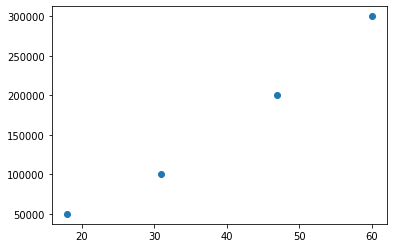
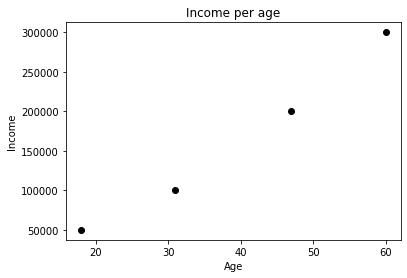
Add interpolation for categorical data

Changed region(s): [[0.0, 0.0, 1.0, 0.9879], [0.6718, 0.3669, 0.7328, 0.4234], [0.3969, 0.6774, 0.458, 0.7339]]

diff --git a/docs/intrplate.html b/docs/intrplate.html
@@ -46,6 +46,8 @@
     <script src="_static/copybutton.js"></script>
     <script >var togglebuttonSelector = '.toggle, .admonition.dropdown, .tag_hide_input div.cell_input, .tag_hide-input div.cell_input, .tag_hide_output div.cell_output, .tag_hide-output div.cell_output, .tag_hide_cell.cell, .tag_hide-cell.cell';</script>
     <script src="_static/sphinx-book-theme.be0a4a0c39cd630af62a2fcf693f3f06.js"></script>
+    <script async="async" src="https://cdnjs.cloudflare.com/ajax/libs/mathjax/2.7.7/latest.js?config=TeX-AMS-MML_HTMLorMML"></script>
+    <script type="text/x-mathjax-config">MathJax.Hub.Config({"tex2jax": {"inlineMath": [["\\(", "\\)"]], "displayMath": [["\\[", "\\]"]], "processRefs": false, "processEnvironments": false}})</script>
     <script async="async" src="https://unpkg.com/thebelab@latest/lib/index.js"></script>
     <script >
         const thebe_selector = ".thebe"
@@ -177,6 +179,37 @@
     <!-- Table of contents -->
     <div class="d-none d-md-block col-md-2 bd-toc show">
         
+        <div class="tocsection onthispage pt-5 pb-3">
+            <i class="fas fa-list"></i> Contents
+        </div>
+        <nav id="bd-toc-nav">
+            <ul class="nav section-nav flex-column">
+ <li class="toc-h2 nav-item toc-entry">
+  <a class="reference internal nav-link" href="#b-splines">
+   B-splines
+  </a>
+ </li>
+ <li class="toc-h2 nav-item toc-entry">
+  <a class="reference internal nav-link" href="#examples">
+   Examples
+  </a>
+  <ul class="nav section-nav flex-column">
+   <li class="toc-h3 nav-item toc-entry">
+    <a class="reference internal nav-link" href="#age-and-income">
+     Age and income
+    </a>
+   </li>
+   <li class="toc-h3 nav-item toc-entry">
+    <a class="reference internal nav-link" href="#categorical-variables">
+     Categorical variables
+    </a>
+   </li>
+  </ul>
+ </li>
+</ul>
+
+        </nav>
+        
     </div>
 </div>
     <div id="main-content" class="row">
@@ -186,6 +219,31 @@
                 
   <div class="section" id="intrplate">
 <h1>intrplate<a class="headerlink" href="#intrplate" title="Permalink to this headline">¶</a></h1>
+<div class="section" id="b-splines">
+<h2>B-splines<a class="headerlink" href="#b-splines" title="Permalink to this headline">¶</a></h2>
+<p>A B-spline is a configurable spline function typically used for curve fitting.</p>
+<p>A spline of order <span class="math notranslate nohighlight">\(n\)</span> is a piecewise polynomial function of degree <span class="math notranslate nohighlight">\(n-1\)</span> in a variable <span class="math notranslate nohighlight">\(x\)</span>.
+The values of <span class="math notranslate nohighlight">\(x\)</span> where the pieces of polynomial meet are known as knots, denoted <span class="math notranslate nohighlight">\(t_{0},t_{1},t_{2},\ldots ,t_{n}\)</span> and sorted into non-decreasing order.
+When the knots are distinct, the first <span class="math notranslate nohighlight">\(n-2\)</span> derivatives of the polynomial pieces are continuous across each knot. When <span class="math notranslate nohighlight">\(r\)</span>r knots are coincident, then only the first <span class="math notranslate nohighlight">\(n-r-1\)</span> derivatives of the spline are continuous across that knot.</p>
+<p>For a given sequence of knots, there is, up to a scaling factor, a unique spline <span class="math notranslate nohighlight">\(B_{i,n}(x)\)</span> satisfying:</p>
+<div class="math notranslate nohighlight">
+\[\begin{split}
+B_{i,n}(x)=\left\{\begin{array}{ll}0&amp;\mathrm {if} \quad x&lt;t_{i}\quad \mathrm {or} \quad x\geq t_{i+n}\\\mathrm {nonzero} &amp;\mathrm {otherwise} \end{array}\right.
+\end{split}\]</div>
+<p>If we add the additional constrain that <span class="math notranslate nohighlight">\(\sum _{i}B_{i,n}(x)=1\)</span> for all <span class="math notranslate nohighlight">\(x\)</span> between the first and last knot, then the scaling factor
+of <span class="math notranslate nohighlight">\(B_{i,n}(x)\)</span> becomes fixed. The resulting <span class="math notranslate nohighlight">\(B_{i,n}(x)\)</span> spline functions are called B-splines.</p>
+</div>
+<div class="section" id="examples">
+<h2>Examples<a class="headerlink" href="#examples" title="Permalink to this headline">¶</a></h2>
+<div class="section" id="age-and-income">
+<h3>Age and income<a class="headerlink" href="#age-and-income" title="Permalink to this headline">¶</a></h3>
+<p>Let’s create a <span class="math notranslate nohighlight">\(n=3\)</span> B-spline for a dataset. Let’s assume we age a <em>age</em> and <em>income</em> dataset we want to simulate, and we want to provide the following points:</p>
+<ul class="simple">
+<li><p>Age 18, income 50k</p></li>
+<li><p>Age 31, income 100k</p></li>
+<li><p>Age 47, income 200k</p></li>
+<li><p>Age 60, income 300k</p></li>
+</ul>
 <div class="cell docutils container">
 <div class="cell_input docutils container">
 <div class="highlight-ipython3 notranslate"><div class="highlight"><pre><span></span><span class="kn">import</span> <span class="nn">numpy</span> <span class="k">as</span> <span class="nn">np</span>
@@ -196,11 +254,14 @@
 </div>
 </div>
 </div>
-<div class="cell docutils container">
+<div class="cell tag_hide-input docutils container">
 <div class="cell_input docutils container">
 <div class="highlight-ipython3 notranslate"><div class="highlight"><pre><span></span><span class="kn">import</span> <span class="nn">matplotlib.pyplot</span> <span class="k">as</span> <span class="nn">plt</span>
 
-<span class="n">plt</span><span class="o">.</span><span class="n">scatter</span><span class="p">(</span><span class="n">data</span><span class="p">[:,</span><span class="mi">0</span><span class="p">],</span> <span class="n">data</span><span class="p">[:,</span><span class="mi">1</span><span class="p">])</span>
+<span class="n">plt</span><span class="o">.</span><span class="n">scatter</span><span class="p">(</span><span class="n">data</span><span class="p">[:,</span><span class="mi">0</span><span class="p">],</span> <span class="n">data</span><span class="p">[:,</span><span class="mi">1</span><span class="p">],</span> <span class="n">c</span><span class="o">=</span><span class="s1">&#39;k&#39;</span><span class="p">)</span>
+<span class="n">plt</span><span class="o">.</span><span class="n">title</span><span class="p">(</span><span class="s2">&quot;Income per age&quot;</span><span class="p">)</span>
+<span class="n">plt</span><span class="o">.</span><span class="n">xlabel</span><span class="p">(</span><span class="s2">&quot;Age&quot;</span><span class="p">)</span>
+<span class="n">plt</span><span class="o">.</span><span class="n">ylabel</span><span class="p">(</span><span class="s2">&quot;Income&quot;</span><span class="p">)</span>
 <span class="n">plt</span><span class="o">.</span><span class="n">show</span><span class="p">()</span>
 </pre></div>
 </div>
@@ -209,6 +270,7 @@
 <img alt="_images/intrplate_2_0.png" src="_images/intrplate_2_0.png" />
 </div>
 </div>
+<p>Let’s create a simple interpolation:</p>
 <div class="cell docutils container">
 <div class="cell_input docutils container">
 <div class="highlight-ipython3 notranslate"><div class="highlight"><pre><span></span><span class="n">interpolated</span> <span class="o">=</span> <span class="n">intrplate</span><span class="o">.</span><span class="n">basis_spline</span><span class="p">(</span><span class="n">data</span><span class="o">=</span><span class="n">data</span><span class="p">,</span> <span class="n">degree</span><span class="o">=</span><span class="mi">3</span><span class="p">)</span>
@@ -216,18 +278,27 @@
 </div>
 </div>
 </div>
-<div class="cell docutils container">
+<div class="cell tag_hide-input docutils container">
 <div class="cell_input docutils container">
-<div class="highlight-ipython3 notranslate"><div class="highlight"><pre><span></span><span class="n">plt</span><span class="o">.</span><span class="n">scatter</span><span class="p">(</span><span class="n">interpolated</span><span class="p">[:,</span><span class="mi">0</span><span class="p">],</span> <span class="n">interpolated</span><span class="p">[:,</span><span class="mi">1</span><span class="p">],</span> <span class="n">s</span><span class="o">=</span><span class="mi">2</span><span class="p">)</span>
-<span class="n">plt</span><span class="o">.</span><span class="n">scatter</span><span class="p">(</span><span class="n">data</span><span class="p">[:,</span><span class="mi">0</span><span class="p">],</span> <span class="n">data</span><span class="p">[:,</span><span class="mi">1</span><span class="p">],</span> <span class="n">c</span><span class="o">=</span><span class="s1">&#39;red&#39;</span><span class="p">)</span>
+<div class="highlight-ipython3 notranslate"><div class="highlight"><pre><span></span><span class="n">plt</span><span class="o">.</span><span class="n">scatter</span><span class="p">(</span><span class="n">interpolated</span><span class="p">[:,</span><span class="mi">0</span><span class="p">],</span> <span class="n">interpolated</span><span class="p">[:,</span><span class="mi">1</span><span class="p">],</span> <span class="n">s</span><span class="o">=</span><span class="mi">2</span><span class="p">,</span> <span class="n">c</span><span class="o">=</span><span class="s1">&#39;red&#39;</span><span class="p">)</span>
+<span class="n">plt</span><span class="o">.</span><span class="n">title</span><span class="p">(</span><span class="s2">&quot;Income per age (interpolated)&quot;</span><span class="p">)</span>
+<span class="n">plt</span><span class="o">.</span><span class="n">xlabel</span><span class="p">(</span><span class="s2">&quot;Age&quot;</span><span class="p">)</span>
+<span class="n">plt</span><span class="o">.</span><span class="n">ylabel</span><span class="p">(</span><span class="s2">&quot;Income&quot;</span><span class="p">)</span>
+<span class="n">plt</span><span class="o">.</span><span class="n">scatter</span><span class="p">(</span><span class="n">data</span><span class="p">[:,</span><span class="mi">0</span><span class="p">],</span> <span class="n">data</span><span class="p">[:,</span><span class="mi">1</span><span class="p">],</span> <span class="n">c</span><span class="o">=</span><span class="s1">&#39;k&#39;</span><span class="p">)</span>
 <span class="n">plt</span><span class="o">.</span><span class="n">show</span><span class="p">()</span>
 </pre></div>
 </div>
 </div>
 <div class="cell_output docutils container">
-<img alt="_images/intrplate_4_0.png" src="_images/intrplate_4_0.png" />
+<img alt="_images/intrplate_5_0.png" src="_images/intrplate_5_0.png" />
 </div>
 </div>
+<p>The dataset, however, does not contain any type of randomness right now.
+We can use the <code class="docutils literal notranslate"><span class="pre">noisy_basis_spline</span></code> which adds random noise according to a normal distribution</p>
+<div class="math notranslate nohighlight">
+\[
+p^{\prime} = p + \epsilon,\quad\epsilon \sim \mathcal{N}\left(0,\sigma^2\right)
+\]</div>
 <div class="cell docutils container">
 <div class="cell_input docutils container">
 <div class="highlight-ipython3 notranslate"><div class="highlight"><pre><span></span><span class="n">interpolated_noisy</span> <span class="o">=</span> <span class="n">intrplate</span><span class="o">.</span><span class="n">noisy_basis_spline</span><span class="p">(</span><span class="n">data</span><span class="o">=</span><span class="n">data</span><span class="p">,</span> <span class="n">degree</span><span class="o">=</span><span class="mi">3</span><span class="p">,</span> <span class="n">std</span><span class="o">=</span><span class="mf">5.0</span><span class="p">)</span>
@@ -235,16 +306,76 @@
 </div>
 </div>
 </div>
-<div class="cell docutils container">
+<div class="cell tag_hide-input docutils container">
 <div class="cell_input docutils container">
-<div class="highlight-ipython3 notranslate"><div class="highlight"><pre><span></span><span class="n">plt</span><span class="o">.</span><span class="n">scatter</span><span class="p">(</span><span class="n">interpolated_noisy</span><span class="p">[:,</span><span class="mi">0</span><span class="p">],</span> <span class="n">interpolated_noisy</span><span class="p">[:,</span><span class="mi">1</span><span class="p">],</span> <span class="n">s</span><span class="o">=</span><span class="mi">2</span><span class="p">)</span>
-<span class="n">plt</span><span class="o">.</span><span class="n">scatter</span><span class="p">(</span><span class="n">data</span><span class="p">[:,</span><span class="mi">0</span><span class="p">],</span> <span class="n">data</span><span class="p">[:,</span><span class="mi">1</span><span class="p">],</span> <span class="n">c</span><span class="o">=</span><span class="s1">&#39;red&#39;</span><span class="p">)</span>
+<div class="highlight-ipython3 notranslate"><div class="highlight"><pre><span></span><span class="n">plt</span><span class="o">.</span><span class="n">scatter</span><span class="p">(</span><span class="n">interpolated_noisy</span><span class="p">[:,</span><span class="mi">0</span><span class="p">],</span> <span class="n">interpolated_noisy</span><span class="p">[:,</span><span class="mi">1</span><span class="p">],</span> <span class="n">s</span><span class="o">=</span><span class="mi">2</span><span class="p">,</span> <span class="n">c</span><span class="o">=</span><span class="s1">&#39;red&#39;</span><span class="p">)</span>
+<span class="n">plt</span><span class="o">.</span><span class="n">scatter</span><span class="p">(</span><span class="n">data</span><span class="p">[:,</span><span class="mi">0</span><span class="p">],</span> <span class="n">data</span><span class="p">[:,</span><span class="mi">1</span><span class="p">],</span> <span class="n">c</span><span class="o">=</span><span class="s1">&#39;k&#39;</span><span class="p">)</span>
+<span class="n">plt</span><span class="o">.</span><span class="n">title</span><span class="p">(</span><span class="s2">&quot;Income per age (interpolated)&quot;</span><span class="p">)</span>
+<span class="n">plt</span><span class="o">.</span><span class="n">xlabel</span><span class="p">(</span><span class="s2">&quot;Age&quot;</span><span class="p">)</span>
+<span class="n">plt</span><span class="o">.</span><span class="n">ylabel</span><span class="p">(</span><span class="s2">&quot;Income&quot;</span><span class="p">)</span>
 <span class="n">plt</span><span class="o">.</span><span class="n">show</span><span class="p">()</span>
 </pre></div>
 </div>
 </div>
 <div class="cell_output docutils container">
-<img alt="_images/intrplate_6_0.png" src="_images/intrplate_6_0.png" />
+<img alt="_images/intrplate_8_0.png" src="_images/intrplate_8_0.png" />
+</div>
+</div>
+</div>
+<div class="section" id="categorical-variables">
+<h3>Categorical variables<a class="headerlink" href="#categorical-variables" title="Permalink to this headline">¶</a></h3>
+<p>For this example, let’s take a categorical variable.
+Let’s assume as an index the <em>week number</em> and for the categorical variable the possible temperature categories <em>cold</em>, <em>mild</em>, <em>hot</em>.</p>
+<div class="cell docutils container">
+<div class="cell_input docutils container">
+<div class="highlight-ipython3 notranslate"><div class="highlight"><pre><span></span><span class="n">temperatures</span> <span class="o">=</span> <span class="n">np</span><span class="o">.</span><span class="n">array</span><span class="p">([[</span><span class="mi">4</span><span class="p">,</span> <span class="s1">&#39;cold&#39;</span><span class="p">],</span> <span class="p">[</span><span class="mi">18</span><span class="p">,</span> <span class="s1">&#39;mild&#39;</span><span class="p">],</span> <span class="p">[</span><span class="mi">32</span><span class="p">,</span> <span class="s1">&#39;hot&#39;</span><span class="p">],</span> <span class="p">[</span><span class="mi">37</span><span class="p">,</span> <span class="s1">&#39;mild&#39;</span><span class="p">],</span> <span class="p">[</span><span class="mi">49</span><span class="p">,</span> <span class="s1">&#39;cold&#39;</span><span class="p">]])</span>
+</pre></div>
+</div>
+</div>
+</div>
+<div class="cell tag_hide-input docutils container">
+<div class="cell_input docutils container">
+<div class="highlight-ipython3 notranslate"><div class="highlight"><pre><span></span><span class="n">plt</span><span class="o">.</span><span class="n">scatter</span><span class="p">(</span><span class="n">temperatures</span><span class="p">[:,</span><span class="mi">0</span><span class="p">],</span> <span class="n">temperatures</span><span class="p">[:,</span><span class="mi">1</span><span class="p">],</span> <span class="n">c</span><span class="o">=</span><span class="s1">&#39;k&#39;</span><span class="p">)</span>
+<span class="n">plt</span><span class="o">.</span><span class="n">title</span><span class="p">(</span><span class="s2">&quot;Temperature category by week number&quot;</span><span class="p">)</span>
+<span class="n">plt</span><span class="o">.</span><span class="n">xlabel</span><span class="p">(</span><span class="s2">&quot;Week&quot;</span><span class="p">)</span>
+<span class="n">plt</span><span class="o">.</span><span class="n">ylabel</span><span class="p">(</span><span class="s2">&quot;Temperature&quot;</span><span class="p">)</span>
+<span class="n">plt</span><span class="o">.</span><span class="n">show</span><span class="p">()</span>
+</pre></div>
+</div>
+</div>
+<div class="cell_output docutils container">
+<img alt="_images/intrplate_11_0.png" src="_images/intrplate_11_0.png" />
+</div>
+</div>
+<div class="cell docutils container">
+<div class="cell_input docutils container">
+<div class="highlight-ipython3 notranslate"><div class="highlight"><pre><span></span><span class="n">interpolated_temperatures</span> <span class="o">=</span> <span class="n">intrplate</span><span class="o">.</span><span class="n">interpolate_categorical</span><span class="p">(</span><span class="n">temperatures</span><span class="p">[:,</span><span class="mi">0</span><span class="p">]</span><span class="o">.</span><span class="n">astype</span><span class="p">(</span><span class="n">np</span><span class="o">.</span><span class="n">float</span><span class="p">),</span> <span class="n">temperatures</span><span class="p">[:,</span><span class="mi">1</span><span class="p">],</span> <span class="n">size</span><span class="o">=</span><span class="mi">52</span><span class="p">)</span>
+</pre></div>
+</div>
+</div>
+</div>
+<div class="cell tag_hide-input docutils container">
+<div class="cell_input docutils container">
+<div class="highlight-ipython3 notranslate"><div class="highlight"><pre><span></span><span class="kn">from</span> <span class="nn">matplotlib.ticker</span> <span class="kn">import</span> <span class="n">FormatStrFormatter</span>
+<span class="kn">import</span> <span class="nn">matplotlib</span>
+
+<span class="n">fig</span><span class="p">,</span> <span class="n">ax</span> <span class="o">=</span> <span class="n">plt</span><span class="o">.</span><span class="n">subplots</span><span class="p">()</span>
+
+<span class="n">plt</span><span class="o">.</span><span class="n">scatter</span><span class="p">(</span><span class="n">interpolated_temperatures</span><span class="p">[:,</span><span class="mi">0</span><span class="p">],</span> <span class="n">interpolated_temperatures</span><span class="p">[:,</span><span class="mi">1</span><span class="p">],</span> <span class="n">s</span><span class="o">=</span><span class="mi">2</span><span class="p">,</span> <span class="n">c</span><span class="o">=</span><span class="s1">&#39;red&#39;</span><span class="p">)</span>
+<span class="n">plt</span><span class="o">.</span><span class="n">title</span><span class="p">(</span><span class="s2">&quot;Temperature category by week number&quot;</span><span class="p">)</span>
+<span class="n">plt</span><span class="o">.</span><span class="n">xlabel</span><span class="p">(</span><span class="s2">&quot;Week&quot;</span><span class="p">)</span>
+<span class="n">plt</span><span class="o">.</span><span class="n">ylabel</span><span class="p">(</span><span class="s2">&quot;Temperature&quot;</span><span class="p">)</span>
+<span class="n">plt</span><span class="o">.</span><span class="n">scatter</span><span class="p">(</span><span class="n">temperatures</span><span class="p">[:,</span><span class="mi">0</span><span class="p">]</span><span class="o">.</span><span class="n">astype</span><span class="p">(</span><span class="n">np</span><span class="o">.</span><span class="n">float</span><span class="p">),</span> <span class="n">temperatures</span><span class="p">[:,</span><span class="mi">1</span><span class="p">],</span> <span class="n">c</span><span class="o">=</span><span class="s1">&#39;k&#39;</span><span class="p">)</span>
+<span class="n">ax</span><span class="o">.</span><span class="n">xaxis</span><span class="o">.</span><span class="n">set_major_formatter</span><span class="p">(</span><span class="n">FormatStrFormatter</span><span class="p">(</span><span class="s1">&#39;</span><span class="si">%.0f</span><span class="s1">&#39;</span><span class="p">))</span>
+<span class="n">ax</span><span class="o">.</span><span class="n">xaxis</span><span class="o">.</span><span class="n">set_major_locator</span><span class="p">(</span><span class="n">matplotlib</span><span class="o">.</span><span class="n">ticker</span><span class="o">.</span><span class="n">MaxNLocator</span><span class="p">(</span><span class="n">nbins</span><span class="o">=</span><span class="mi">16</span><span class="p">))</span>
+<span class="n">plt</span><span class="o">.</span><span class="n">show</span><span class="p">()</span>
+</pre></div>
+</div>
+</div>
+<div class="cell_output docutils container">
+<img alt="_images/intrplate_13_0.png" src="_images/intrplate_13_0.png" />
+</div>
+</div>
 </div>
 </div>
 </div>

diff --git a/docs/searchindex.js b/docs/searchindex.js
@@ -1,1 +1,1 @@
-Search.setIndex({docnames:["intrplate"],envversion:{"sphinx.domains.c":2,"sphinx.domains.changeset":1,"sphinx.domains.citation":1,"sphinx.domains.cpp":3,"sphinx.domains.index":1,"sphinx.domains.javascript":2,"sphinx.domains.math":2,"sphinx.domains.python":2,"sphinx.domains.rst":2,"sphinx.domains.std":1,"sphinx.ext.intersphinx":1,sphinx:56},filenames:["intrplate.ipynb"],objects:{},objnames:{},objtypes:{},terms:{"100e3":0,"200e3":0,"300e3":0,"50e3":0,"import":0,arrai:0,basis_splin:0,data:0,degre:0,interpol:0,interpolated_noisi:0,matplotlib:0,noisy_basis_splin:0,numpi:0,plt:0,pyplot:0,red:0,scatter:0,show:0,std:0},titles:["intrplate"],titleterms:{intrplat:0}})
+Search.setIndex({docnames:["intrplate"],envversion:{"sphinx.domains.c":2,"sphinx.domains.changeset":1,"sphinx.domains.citation":1,"sphinx.domains.cpp":3,"sphinx.domains.index":1,"sphinx.domains.javascript":2,"sphinx.domains.math":2,"sphinx.domains.python":2,"sphinx.domains.rst":2,"sphinx.domains.std":1,"sphinx.ext.intersphinx":1,sphinx:56},filenames:["intrplate.ipynb"],objects:{},objnames:{},objtypes:{},terms:{"100e3":0,"100k":0,"200e3":0,"200k":0,"300e3":0,"300k":0,"50e3":0,"50k":0,"float":0,"function":0,"import":0,For:0,The:0,accord:0,across:0,add:0,addit:0,age:0,all:0,ani:0,arrai:0,assum:0,astyp:0,basis_splin:0,becom:0,begin:0,between:0,call:0,can:0,categori:0,coincid:0,cold:0,configur:0,constrain:0,contain:0,continu:0,creat:0,curv:0,data:0,dataset:0,decreas:0,degre:0,denot:0,deriv:0,distinct:0,distribut:0,doe:0,each:0,end:0,epsilon:0,factor:0,fig:0,first:0,fit:0,fix:0,follow:0,formatstrformatt:0,from:0,geq:0,given:0,hot:0,howev:0,index:0,interpol:0,interpolate_categor:0,interpolated_noisi:0,interpolated_temperatur:0,knot:0,known:0,last:0,ldot:0,left:0,let:0,mathcal:0,mathrm:0,matplotlib:0,maxnloc:0,meet:0,mild:0,nbin:0,nois:0,noisy_basis_splin:0,non:0,nonzero:0,normal:0,now:0,number:0,numpi:0,onli:0,order:0,otherwis:0,per:0,piec:0,piecewis:0,plt:0,point:0,polynomi:0,possibl:0,prime:0,provid:0,pyplot:0,quad:0,random:0,red:0,result:0,right:0,satisfi:0,scale:0,scatter:0,sequenc:0,set_major_formatt:0,set_major_loc:0,show:0,sigma:0,sim:0,simpl:0,simul:0,size:0,sort:0,std:0,subplot:0,sum:0,take:0,temperatur:0,thi:0,ticker:0,titl:0,type:0,typic:0,uniqu:0,use:0,used:0,valu:0,want:0,week:0,when:0,where:0,which:0,xaxi:0,xlabel:0,ylabel:0},titles:["intrplate"],titleterms:{Age:0,categor:0,exampl:0,incom:0,intrplat:0,spline:0,variabl:0}})

diff --git a/docs/genindex.html b/docs/genindex.html
@@ -46,6 +46,8 @@
     <script src="_static/copybutton.js"></script>
     <script >var togglebuttonSelector = '.toggle, .admonition.dropdown, .tag_hide_input div.cell_input, .tag_hide-input div.cell_input, .tag_hide_output div.cell_output, .tag_hide-output div.cell_output, .tag_hide_cell.cell, .tag_hide-cell.cell';</script>
     <script src="_static/sphinx-book-theme.be0a4a0c39cd630af62a2fcf693f3f06.js"></script>
+    <script async="async" src="https://cdnjs.cloudflare.com/ajax/libs/mathjax/2.7.7/latest.js?config=TeX-AMS-MML_HTMLorMML"></script>
+    <script type="text/x-mathjax-config">MathJax.Hub.Config({"tex2jax": {"inlineMath": [["\\(", "\\)"]], "displayMath": [["\\[", "\\]"]], "processRefs": false, "processEnvironments": false}})</script>
     <script async="async" src="https://unpkg.com/thebelab@latest/lib/index.js"></script>
     <script >
         const thebe_selector = ".thebe"

diff --git a/docs/search.html b/docs/search.html
@@ -47,6 +47,8 @@
     <script src="_static/copybutton.js"></script>
     <script >var togglebuttonSelector = '.toggle, .admonition.dropdown, .tag_hide_input div.cell_input, .tag_hide-input div.cell_input, .tag_hide_output div.cell_output, .tag_hide-output div.cell_output, .tag_hide_cell.cell, .tag_hide-cell.cell';</script>
     <script src="_static/sphinx-book-theme.be0a4a0c39cd630af62a2fcf693f3f06.js"></script>
+    <script async="async" src="https://cdnjs.cloudflare.com/ajax/libs/mathjax/2.7.7/latest.js?config=TeX-AMS-MML_HTMLorMML"></script>
+    <script type="text/x-mathjax-config">MathJax.Hub.Config({"tex2jax": {"inlineMath": [["\\(", "\\)"]], "displayMath": [["\\[", "\\]"]], "processRefs": false, "processEnvironments": false}})</script>
     <script async="async" src="https://unpkg.com/thebelab@latest/lib/index.js"></script>
     <script >
         const thebe_selector = ".thebe"

diff --git a/intrplate.py b/intrplate.py
@@ -1,5 +1,6 @@
 """Generate synthetic data using B-spline interpolation"""
 # INFO: Generate synthetic data using B-spline interpolation
+from typing import List, Union
 import numpy as np  # type: ignore
 import scipy.interpolate as interpolate  # type: ignore
 
@@ -41,3 +42,20 @@ def noisy_basis_spline(
     interpolated = basis_spline(data, size, degree, periodic)
     noise = np.random.normal(0, std, interpolated.shape)
     return interpolated + noise
+
+
+def interpolate_categorical(
+    indices: Union[List[int], List[float]], categories: List[str], size: int
+) -> List[str]:
+    """Interpolation for categorical variables"""
+    func = interpolate.interp1d(
+        indices,
+        range(len(categories)),
+        kind="nearest",
+        fill_value=(0, len(categories) - 1),
+        bounds_error=False,
+    )
+    x_new = np.linspace(indices[0], indices[-1], size)
+    y_idx: List[float] = func(x_new)
+    y_new: List[str] = [categories[int(i)] for i in y_idx]
+    return np.vstack((x_new, y_new)).T
